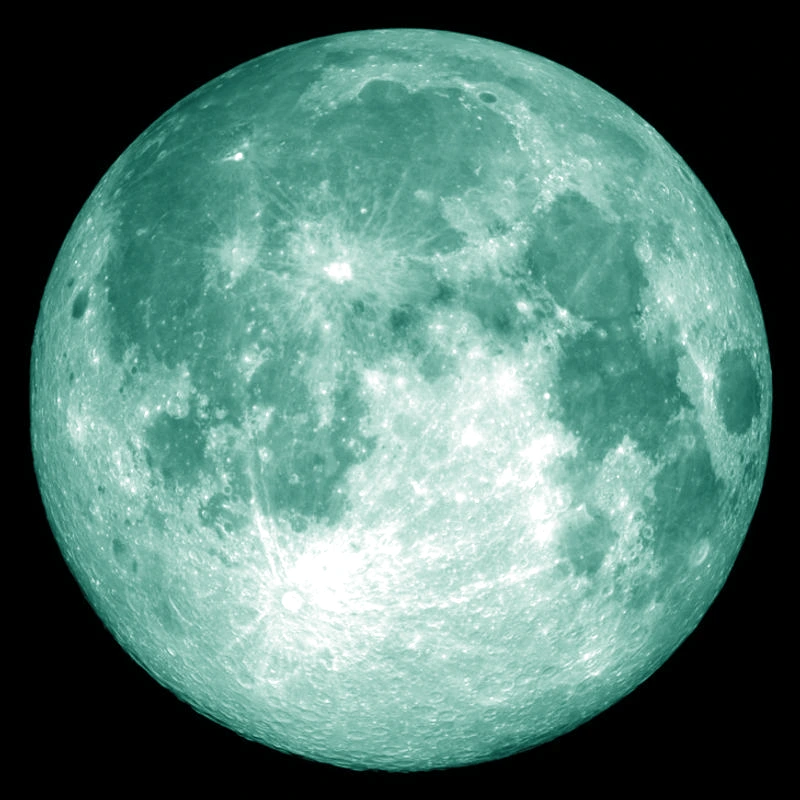
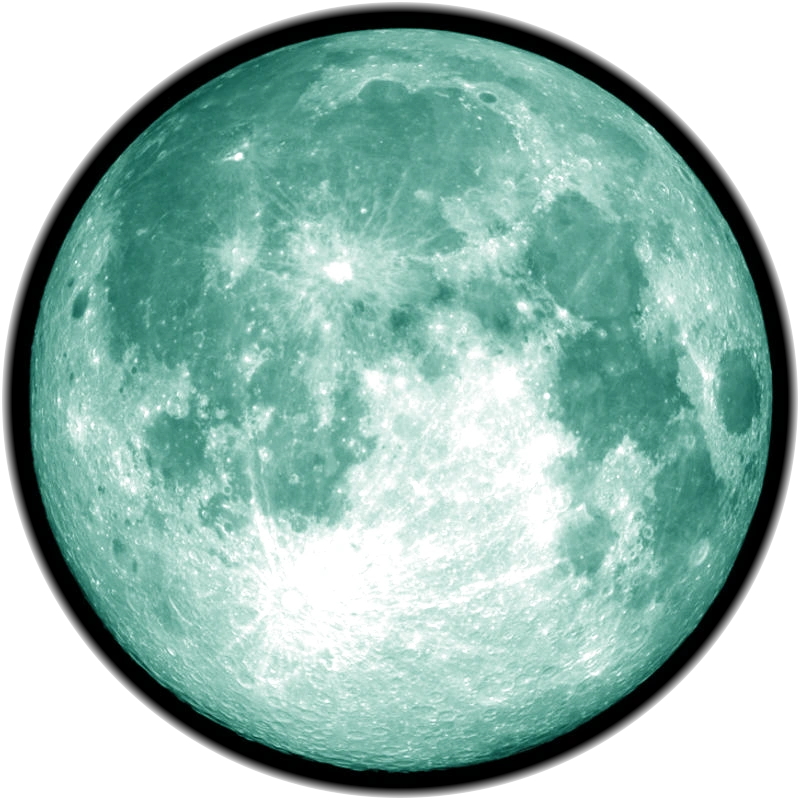
Fix art overlap, pumpkin position, moon rim, bats, and mobile layout
1. OVERLAP: Constrain art container to max-w-[340px] sm:max-w-[380px] to prevent
   elements crossing into left text column. Reduce pumpkin/ghost sizes.

2. PUMPKIN POSITION: Move row to bottom 8% (lower third) so pumpkins stand
   along moon's bottom edge, making crater texture visible above them.

3. MOON RIM: Regenerate moon with radial gradient mask (97-100% fade) to
   eliminate black ring. Remove border-radius, use background-size: contain.

4. BATS: Replace line-drawing SVG with 3 solid filled bat silhouettes at
   different sizes (64-72px) and rotations. Hand-drawn filled path, #2BA89A.

5. MOBILE: Hide Sound off button on screens <640px to avoid nav crowding.
   Smaller art container (340px) ensures pumpkins fit within 390px with margin.

All elements now stay within right column boundaries.

Changed region(s): [[0.0, 0.0, 1.0, 1.0]]

diff --git a/components/seasonal/halloween/HalloweenHero.tsx b/components/seasonal/halloween/HalloweenHero.tsx
@@ -5,11 +5,12 @@ import Image from 'next/image';
 /**
  * Halloween Hero - Art group with moon, pumpkins, candles, ghosts, bats
  * All assets: Microsoft Fluent Emoji (MIT), Openclipart (CC0), NASA (public domain)
+ * Bat: hand-drawn filled SVG
  */
 export default function HalloweenHero() {
   return (
-    <div className="relative flex items-center justify-center w-full max-w-[320px] sm:max-w-[460px] mx-auto" style={{ minHeight: '320px', aspectRatio: '1' }}>
-      {/* Moon - NASA teal-tinted with soft glow */}
+    <div className="relative flex items-center justify-center w-full max-w-[340px] sm:max-w-[380px] mx-auto" style={{ minHeight: '340px', aspectRatio: '1' }}>
+      {/* Moon - NASA teal-tinted with soft glow, no black rim */}
       <div 
         className="halloween-moon" 
         aria-hidden="true"
@@ -21,69 +22,80 @@ export default function HalloweenHero() {
         }}
       />
       
-      {/* Bats above moon - larger, teal with glow */}
-      <div className="absolute" style={{ top: '8%', left: '12%', zIndex: 2 }}>
+      {/* 3 Filled bats around upper moon - solid teal silhouettes */}
+      <div className="absolute" style={{ top: '6%', left: '8%', zIndex: 2, transform: 'rotate(-12deg)' }}>
         <Image
-          src="/seasonal/halloween/bat.svg"
+          src="/seasonal/halloween/bat-filled.svg"
           alt=""
           width={68}
-          height={68}
+          height={34}
           className="halloween-bat"
           aria-hidden="true"
         />
       </div>
-      <div className="absolute" style={{ top: '5%', right: '15%', zIndex: 2 }}>
+      <div className="absolute" style={{ top: '4%', right: '12%', zIndex: 2, transform: 'rotate(15deg)' }}>
         <Image
-          src="/seasonal/halloween/bat.svg"
+          src="/seasonal/halloween/bat-filled.svg"
           alt=""
-          width={68}
-          height={68}
+          width={64}
+          height={32}
+          className="halloween-bat"
+          aria-hidden="true"
+        />
+      </div>
+      <div className="absolute" style={{ top: '10%', right: '6%', zIndex: 2, transform: 'rotate(-8deg) scaleX(-1)' }}>
+        <Image
+          src="/seasonal/halloween/bat-filled.svg"
+          alt=""
+          width={72}
+          height={36}
           className="halloween-bat"
           aria-hidden="true"
         />
       </div>
       
       {/* Left ghost at mid-height */}
-      <div className="absolute" style={{ top: '40%', left: '1%', zIndex: 2 }}>
+      <div className="absolute" style={{ top: '42%', left: '3%', zIndex: 2 }}>
         <Image
           src="/seasonal/halloween/ghost.webp"
           alt=""
-          width={80}
-          height={80}
+          width={72}
+          height={72}
           className="halloween-ghost"
           aria-hidden="true"
         />
       </div>
       
-      {/* Tight row of 5 pumpkins with 2 candles in front of LOWER THIRD of moon (bottom 15-25%) */}
+      {/* Row of 5 pumpkins with 2 candles at LOWER THIRD (bottom 85-95% of moon) */}
       <div 
         className="halloween-pumpkin-row absolute" 
         style={{ 
-          bottom: '17%', 
+          bottom: '8%', 
           left: '50%',
           transform: 'translateX(-50%)',
           zIndex: 3,
           display: 'flex',
-          gap: '0.25rem',
-          alignItems: 'flex-end'
+          gap: '0.2rem',
+          alignItems: 'flex-end',
+          maxWidth: '92%'
         }}
       >
-        <Image src="/seasonal/halloween/pumpkin.webp" alt="" width={70} height={70} className="halloween-pumpkin" aria-hidden="true" />
-        <Image src="/seasonal/halloween/candle.webp" alt="" width={55} height={55} className="halloween-candle" aria-hidden="true" />
-        <Image src="/seasonal/halloween/pumpkin.webp" alt="" width={90} height={90} className="halloween-pumpkin" aria-hidden="true" />
-        <Image src="/seasonal/halloween/pumpkin.webp" alt="" width={110} height={110} className="halloween-pumpkin center" aria-hidden="true" />
-        <Image src="/seasonal/halloween/pumpkin.webp" alt="" width={90} height={90} className="halloween-pumpkin" aria-hidden="true" />
-        <Image src="/seasonal/halloween/candle.webp" alt="" width={55} height={55} className="halloween-candle" aria-hidden="true" />
-        <Image src="/seasonal/halloween/pumpkin.webp" alt="" width={70} height={70} className="halloween-pumpkin" aria-hidden="true" />
+        <Image src="/seasonal/halloween/pumpkin.webp" alt="" width={52} height={52} className="halloween-pumpkin" aria-hidden="true" />
+        <Image src="/seasonal/halloween/candle.webp" alt="" width={42} height={42} className="halloween-candle" aria-hidden="true" />
+        <Image src="/seasonal/halloween/pumpkin.webp" alt="" width={68} height={68} className="halloween-pumpkin" aria-hidden="true" />
+        <Image src="/seasonal/halloween/pumpkin.webp" alt="" width={88} height={88} className="halloween-pumpkin center" aria-hidden="true" />
+        <Image src="/seasonal/halloween/pumpkin.webp" alt="" width={68} height={68} className="halloween-pumpkin" aria-hidden="true" />
+        <Image src="/seasonal/halloween/candle.webp" alt="" width={42} height={42} className="halloween-candle" aria-hidden="true" />
+        <Image src="/seasonal/halloween/pumpkin.webp" alt="" width={52} height={52} className="halloween-pumpkin" aria-hidden="true" />
       </div>
       
       {/* Right ghost bottom-right */}
-      <div className="absolute" style={{ bottom: '10%', right: '3%', zIndex: 2, transform: 'scaleX(-1)' }}>
+      <div className="absolute" style={{ bottom: '12%', right: '6%', zIndex: 2, transform: 'scaleX(-1)' }}>
         <Image
           src="/seasonal/halloween/ghost.webp"
           alt=""
-          width={80}
-          height={80}
+          width={72}
+          height={72}
           className="halloween-ghost"
           aria-hidden="true"
         />

diff --git a/public/seasonal/halloween.css b/public/seasonal/halloween.css
@@ -323,6 +323,13 @@ html:has(body[data-season="halloween"]) {
   backdrop-filter: blur(12px);
 }
 
+/* Hide sound button on mobile Halloween to avoid nav crowding */
+@media (max-width: 639px) {
+  [data-season="halloween"] button[aria-pressed] {
+    display: none;
+  }
+}
+
 /* Quiz generator box - dark teal surface */
 [data-season="halloween"] .bg-white\/70,
 [data-season="halloween"] .bg-white\/80,
@@ -519,13 +526,13 @@ html:has(body[data-season="halloween"]) {
   position: absolute;
   width: 320px;
   height: 320px;
-  border-radius: 50%;
   background-image: url('/seasonal/halloween/moon-teal.webp');
-  background-size: cover;
+  background-size: contain;
   background-position: center;
-  box-shadow: 0 0 120px 40px rgba(143, 217, 200, 0.35);
+  background-repeat: no-repeat;
+  box-shadow: 0 0 120px 50px rgba(143, 217, 200, 0.4);
   z-index: 1;
-  overflow: hidden;
+  border: none;
 }
 
 /* Pumpkin row - in front of moon, wider than moon */
